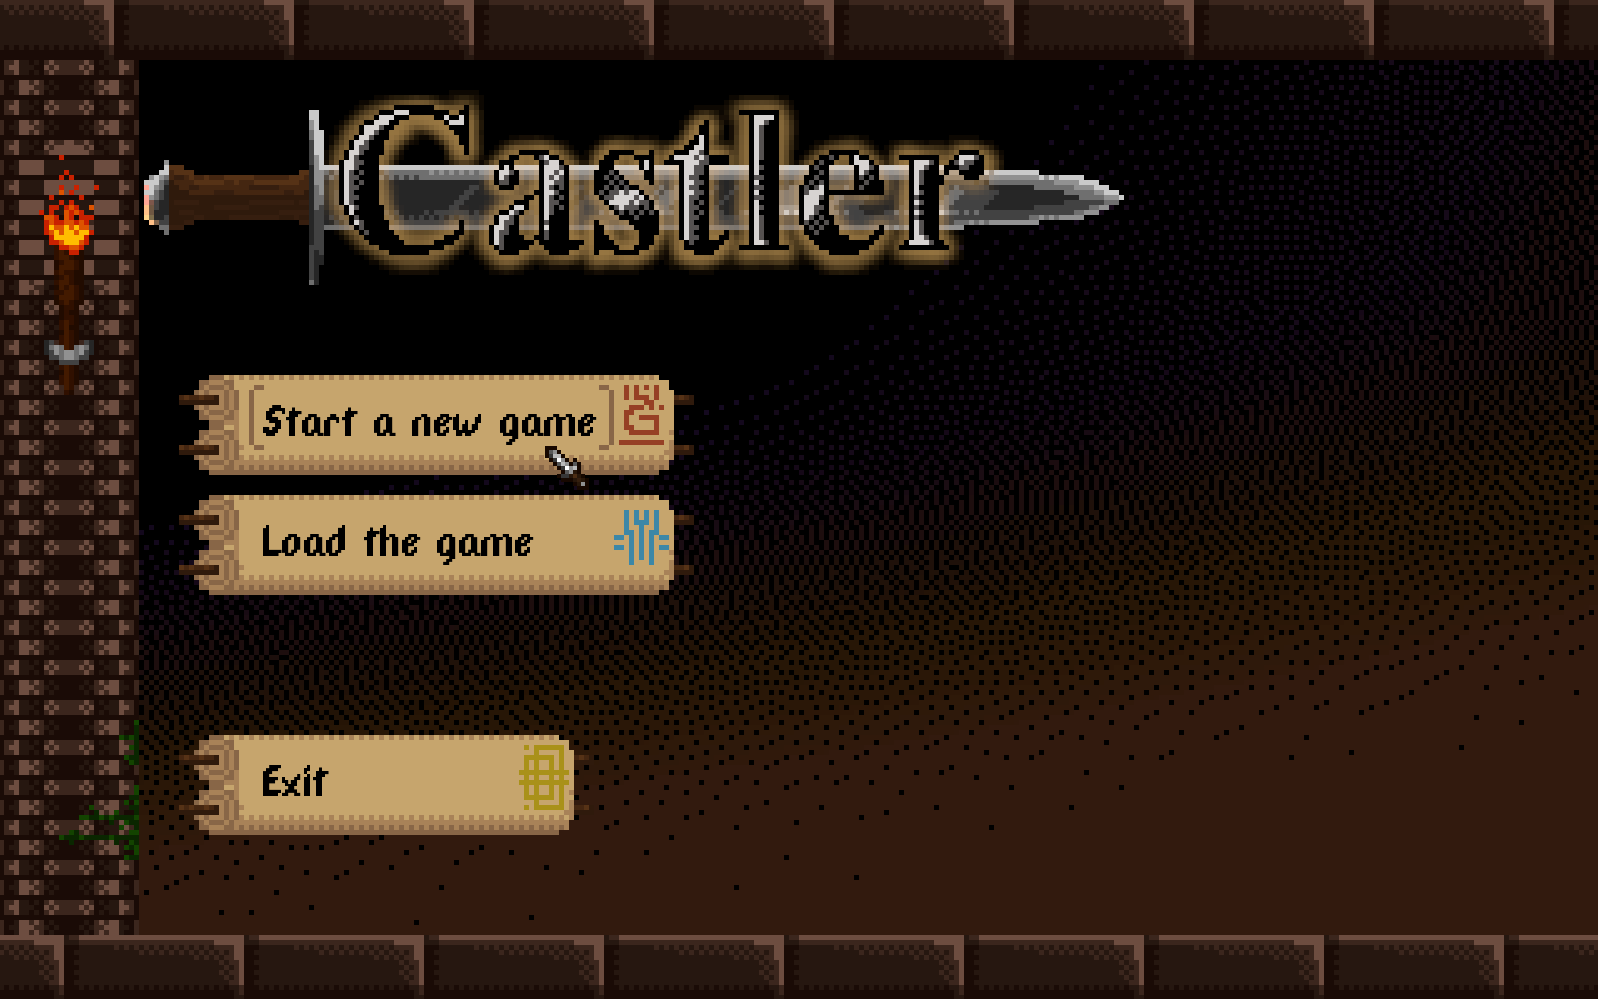
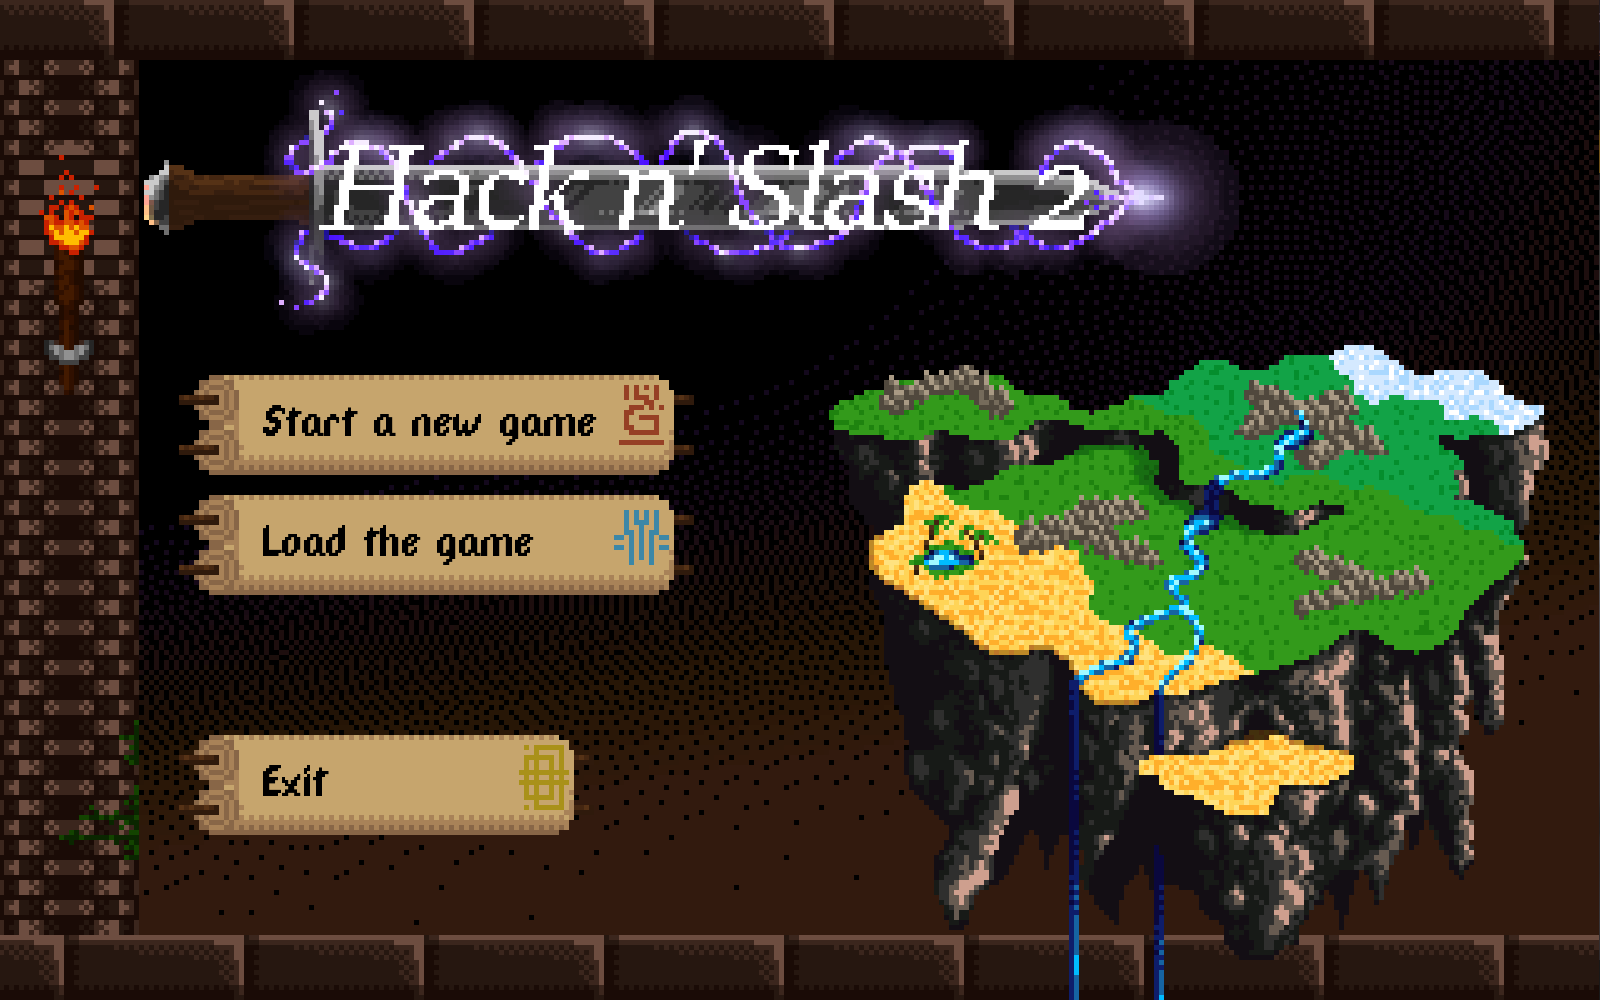
New main menu images, changed biome to an enum from int

diff --git a/Generator/Map.cpp b/Generator/Map.cpp
@@ -61,23 +61,23 @@ void hns::Map::SetBaseValues()
 			{
 				for (int y = 0; y < mapHeight; y++)
 				{
-					biome[x][y] = 0;
+					biome[x][y] = plains;
 					city[x][y] = 0;
 					hero[x][y] = 0;
 					path[x][y] = 0;
 					fog[x][y] = 1;
 					path[x][y] = 0;
-					if (rand() % mtnChance == 1) biome[x][y] = 1;
+					if (rand() % mtnChance == 1) biome[x][y] = mountains;
 					if (biome[x][y] == 1) //Enlargening the mountains
 					{
-						if (rand() % 5 > 1 and x < mapWidth - 1) biome[x + 1][y] = 1;
-						if (rand() % 5 > 1 and x > 0) biome[x - 1][y] = 1;
-						if (rand() % 5 > 1 and y < mapHeight - 1) biome[x][y + 1] = 1;
-						if (rand() % 5 > 1 and y > 0) biome[x][y - 1] = 1;
-						if (rand() % 5 > 0 and x < mapWidth - 1 and y < mapHeight - 1) biome[x + 1][y + 1] = 1;
-						if (rand() % 5 > 0 and x > 0 and y < mapHeight - 1) biome[x - 1][y + 1] = 1;
-						if (rand() % 5 > 0 and x < mapWidth - 1 and y > 0) biome[x + 1][y - 1] = 1;
-						if (rand() % 5 > 0 and x > 0 and y > 0) biome[x - 1][y - 1] = 1;
+						if (rand() % 5 > 1 and x < mapWidth - 1) biome[x + 1][y] = mountains;
+						if (rand() % 5 > 1 and x > 0) biome[x - 1][y] = mountains;
+						if (rand() % 5 > 1 and y < mapHeight - 1) biome[x][y + 1] = mountains;
+						if (rand() % 5 > 1 and y > 0) biome[x][y - 1] = mountains;
+						if (rand() % 5 > 0 and x < mapWidth - 1 and y < mapHeight - 1) biome[x + 1][y + 1] = mountains;
+						if (rand() % 5 > 0 and x > 0 and y < mapHeight - 1) biome[x - 1][y + 1] = mountains;
+						if (rand() % 5 > 0 and x < mapWidth - 1 and y > 0) biome[x + 1][y - 1] = mountains;
+						if (rand() % 5 > 0 and x > 0 and y > 0) biome[x - 1][y - 1] = mountains;
 					}
 				}
 			}
@@ -90,8 +90,8 @@ void hns::Map::EnlargeMountains()
 			{
 				for (int y = 0; y < mapHeight; y++)
 				{
-					if (x > 1 and x < mapWidth - 1 and y > 1 and y < mapHeight - 1 and biome[x][y] == 1 and biome[x + 1][y] == 0 and biome[x - 1][y] == 0 and biome[x][y - 1] == 0 and biome[x][y + 1] == 0) biome[x][y] = 0;
-					if (x > 1 and x < mapWidth - 1 and y > 1 and y < mapHeight - 1 and biome[x][y] == 0 and biome[x + 1][y] == 1 and biome[x - 1][y] == 1 and biome[x][y - 1] == 1 and biome[x][y + 1] == 1) biome[x][y] = 1;
+					if (x > 1 and x < mapWidth - 1 and y > 1 and y < mapHeight - 1 and biome[x][y] == 1 and biome[x + 1][y] == 0 and biome[x - 1][y] == 0 and biome[x][y - 1] == 0 and biome[x][y + 1] == 0) biome[x][y] = plains;
+					if (x > 1 and x < mapWidth - 1 and y > 1 and y < mapHeight - 1 and biome[x][y] == 0 and biome[x + 1][y] == 1 and biome[x - 1][y] == 1 and biome[x][y - 1] == 1 and biome[x][y + 1] == 1) biome[x][y] = mountains;
 				}
 			}
 		};
@@ -100,10 +100,10 @@ void hns::Map::CreateDeserts()
 		{
 			for (int x = 0; x < mapWidth; x++)
 			{
-				if (rand() % 2 == 0) biome[x][mapHeight*10/13] = 2;
+				if (rand() % 2 == 0) biome[x][mapHeight*10/13] = desert;
 				for (int y = (mapHeight * 10 / 13) + 1; y < mapHeight; y++)
 				{
-					biome[x][y] = 2;
+					biome[x][y] = desert;
 				}
 			}
 		};
@@ -112,8 +112,8 @@ void hns::Map::CreateArctic()
 		{
 			for (int x = 0; x < mapWidth; x++)
 			{
-				if (rand() % 2 == 0) biome[x][5] = 3;
-				for (int y = 0; y < 5; y++) biome[x][y] = 3;
+				if (rand() % 2 == 0) biome[x][5] = arctic;
+				for (int y = 0; y < 5; y++) biome[x][y] = arctic;
 			}
 		};
 
@@ -217,7 +217,7 @@ void hns::Map::CreateForests()
 						{
 							for (y1 = 0; y1 < 3; y1++)
 							{
-								if (x + x1 - 1 >= 0 && x + x1 - 1 < mapWidth && y + y1 - 1 >= 0 && y + y1 - 1 < mapHeight && biome[x + x1 - 1][y + y1 - 1] == 0) biome[x + x1 - 1][y + y1 - 1] = 4;
+								if (x + x1 - 1 >= 0 && x + x1 - 1 < mapWidth && y + y1 - 1 >= 0 && y + y1 - 1 < mapHeight && biome[x + x1 - 1][y + y1 - 1] == 0) biome[x + x1 - 1][y + y1 - 1] = forest;
 							}
 						}
 					}
@@ -234,28 +234,28 @@ void hns::Map::CreateForests()
 						{
 							if (biome[x + 1][y] == 0)
 							{
-								biome[x + 1][y] = 100;
+								biome[x + 1][y] = temporary;
 							}
 						}
 						if (x > 0)
 						{
 							if (biome[x - 1][y] == 0)
 							{
-								biome[x - 1][y] = 100;
+								biome[x - 1][y] = temporary;
 							}
 						}
 						if (y < mapHeight)
 						{
 							if (biome[x][y + 1] == 0)
 							{
-								biome[x][y + 1] = 100;
+								biome[x][y + 1] = temporary;
 							}
 						}
 						if (y > 0)
 						{
 							if (biome[x][y - 1] == 0)
 							{
-								biome[x][y - 1] = 100;
+								biome[x][y - 1] = temporary;
 							}
 						}
 					}
@@ -268,7 +268,7 @@ void hns::Map::CreateForests()
 				{
 					if (biome[x][y] == 100)
 					{
-						biome[x][y] = 4;
+						biome[x][y] = forest;
 					}
 				}
 			}
@@ -325,8 +325,8 @@ void hns::Map::FurtherCityGen()
 				{
 					if (y < mapHeight*2 / 5)
 					{
-						if (biome[x][y] == 0) biome[x][y] = 5;
-						if (biome[x][y] == 4) biome[x][y] = 6;
+						if (biome[x][y] == 0) biome[x][y] = cold_plains;
+						if (biome[x][y] == 4) biome[x][y] = cold_forest;
 					}
 
 					for (int i = 0; i < 20; i++)
@@ -640,6 +640,32 @@ void hns::Map::Initialize()
 	wcout << L"Baked the textures." << std::endl;
 	BakeMap();
 	wcout << L"Baked the map." << std::endl;
+}
+
+int hns::Map::ChooseConnectedSpriteIndex(int c, int u, int value, std::vector<std::vector<Biome>> valueType, std::string fileName)
+{
+	int i;
+	for (i = 0; i < mapTextures.size(); i++)
+	{
+		if (mapTextures[i].name == fileName) break;
+	}
+
+	if (u + 1 < mapHeight and u - 1 >= 0 and c + 1 < mapWidth and c - 1 >= 0 and valueType[c - 1][u] != value and valueType[c + 1][u] == value and valueType[c][u + 1] != value and valueType[c][u - 1] != value) return i + 1;
+	else if (u + 1 < mapHeight and u - 1 >= 0 and c + 1 < mapWidth and c - 1 >= 0 and valueType[c - 1][u] == value and valueType[c + 1][u] == value and valueType[c][u + 1] != value and valueType[c][u - 1] != value) return i + 2;
+	else if (u + 1 < mapHeight and u - 1 >= 0 and c + 1 < mapWidth and c - 1 >= 0 and valueType[c - 1][u] == value and valueType[c + 1][u] != value and valueType[c][u + 1] != value and valueType[c][u - 1] != value) return i + 3;
+	else if (u + 1 < mapHeight and u - 1 >= 0 and c + 1 < mapWidth and c - 1 >= 0 and valueType[c - 1][u] != value and valueType[c + 1][u] != value and valueType[c][u + 1] == value and valueType[c][u - 1] != value) return i + 4;
+	else if (u + 1 < mapHeight and u - 1 >= 0 and c + 1 < mapWidth and c - 1 >= 0 and valueType[c - 1][u] != value and valueType[c + 1][u] != value and valueType[c][u + 1] == value and valueType[c][u - 1] == value) return i + 5;
+	else if (u + 1 < mapHeight and u - 1 >= 0 and c + 1 < mapWidth and c - 1 >= 0 and valueType[c - 1][u] != value and valueType[c + 1][u] != value and valueType[c][u + 1] != value and valueType[c][u - 1] == value) return i + 6;
+	else if (u + 1 < mapHeight and u - 1 >= 0 and c + 1 < mapWidth and c - 1 >= 0 and valueType[c - 1][u] == value and valueType[c + 1][u] == value and valueType[c][u + 1] != value and valueType[c][u - 1] == value) return i + 7;
+	else if (u + 1 < mapHeight and u - 1 >= 0 and c + 1 < mapWidth and c - 1 >= 0 and valueType[c - 1][u] == value and valueType[c + 1][u] == value and valueType[c][u + 1] == value and valueType[c][u - 1] != value) return i + 8;
+	else if (u + 1 < mapHeight and u - 1 >= 0 and c + 1 < mapWidth and c - 1 >= 0 and valueType[c - 1][u] != value and valueType[c + 1][u] == value and valueType[c][u + 1] == value and valueType[c][u - 1] == value) return i + 9;
+	else if (u + 1 < mapHeight and u - 1 >= 0 and c + 1 < mapWidth and c - 1 >= 0 and valueType[c - 1][u] == value and valueType[c + 1][u] != value and valueType[c][u + 1] == value and valueType[c][u - 1] == value) return i + 10;
+	else if (u + 1 < mapHeight and u - 1 >= 0 and c + 1 < mapWidth and c - 1 >= 0 and valueType[c - 1][u] == value and valueType[c + 1][u] == value and valueType[c][u + 1] == value and valueType[c][u - 1] == value) return i + 11;
+	else if (u + 1 < mapHeight and u - 1 >= 0 and c + 1 < mapWidth and c - 1 >= 0 and valueType[c - 1][u] == value and valueType[c + 1][u] != value and valueType[c][u + 1] != value and valueType[c][u - 1] == value) return i + 12;
+	else if (u + 1 < mapHeight and u - 1 >= 0 and c + 1 < mapWidth and c - 1 >= 0 and valueType[c - 1][u] != value and valueType[c + 1][u] == value and valueType[c][u + 1] != value and valueType[c][u - 1] == value) return i + 13;
+	else if (u + 1 < mapHeight and u - 1 >= 0 and c + 1 < mapWidth and c - 1 >= 0 and valueType[c - 1][u] == value and valueType[c + 1][u] != value and valueType[c][u + 1] == value and valueType[c][u - 1] != value) return i + 14;
+	else if (u + 1 < mapHeight and u - 1 >= 0 and c + 1 < mapWidth and c - 1 >= 0 and valueType[c - 1][u] != value and valueType[c + 1][u] == value and valueType[c][u + 1] == value and valueType[c][u - 1] != value) return i + 15;
+	else return i;
 }
 
 int hns::Map::ChooseConnectedSpriteIndex(int c, int u, int value, std::vector<std::vector<int>> valueType, std::string fileName)

diff --git a/Generator/Map.h b/Generator/Map.h
@@ -6,6 +6,18 @@
 
 class hns::Player;
 
+enum Biome
+{
+	plains,
+	mountains,
+	desert,
+	arctic,
+	forest,
+	cold_plains,
+	cold_forest,
+	temporary = 100
+};
+
 class ExtendedTexture
 {
 public:
@@ -32,7 +44,7 @@ private:
 	std::string mapName;
 	std::vector<ExtendedTexture> mapTextures;
 public:
-	std::vector<std::vector<int>> biome;
+	std::vector<std::vector<Biome>> biome;
 	std::vector<std::vector<int>> city;
 	std::vector<std::vector<int>> cityID;
 	std::vector<std::vector<int>> cityGuardian;
@@ -48,7 +60,7 @@ public:
 		this->mapName = mapName;
 
 		mapTextures.begin();
-		biome.resize(mW, std::vector<int>(mH, 0));
+		biome.resize(mW, std::vector<Biome>(mH, (Biome) 0));
 		city.resize(mW, std::vector<int>(mH, 0));
 		cityID.resize(mW, std::vector<int>(mH, 0));
 		cityGuardian.resize(mW, std::vector<int>(mH, 0));
@@ -68,6 +80,7 @@ public:
 	void ClearFog(Player& player1);
 
 	int ChooseConnectedSpriteIndex(int c, int u, int biomeId, std::vector<std::vector<int>> valueType, std::string fileName);
+	int ChooseConnectedSpriteIndex(int c, int u, int biomeId, std::vector<std::vector<Biome>> valueType, std::string fileName);
 
 	sf::Texture LookForTexture(std::string name);
 

diff --git a/Generator/main.cpp b/Generator/main.cpp
@@ -139,7 +139,7 @@ int main()
 					hns::Enemy enemy;
 					enemy.loadEnemy("forest");
 					hns::Fight fight(enemy);
-					fight.start(window, mainPlayer, fightUI, mainEquipment);
+					fight.Start(window, mainPlayer, fightUI, mainEquipment);
 					int itemRewardArray[4] = { 0,1,5,101 };
 					int chosenItemId = rand() % 4;
 					int howMany = 1 + rand() % 2;
@@ -165,7 +165,7 @@ int main()
 					hns::Enemy enemy;
 					enemy.loadEnemy("forestCold");
 					hns::Fight fight(enemy);
-					fight.start(window, mainPlayer, fightUI, mainEquipment);
+					fight.Start(window, mainPlayer, fightUI, mainEquipment);
 					int itemRewardArray[4] = { 0,1,5,102 };
 					int chosenItemId = rand() % 4;
 					int howMany = 1 + rand() % 2;
@@ -191,7 +191,7 @@ int main()
 					hns::Enemy enemy;
 					enemy.loadEnemy("mountains");
 					hns::Fight fight(enemy);
-					fight.start(window, mainPlayer, fightUI, mainEquipment);
+					fight.Start(window, mainPlayer, fightUI, mainEquipment);
 					int itemRewardArray[3] = { 0,1,103 };
 					int chosenItemId = rand() % 3;
 					int howMany = 1 + rand() % 2;

diff --git a/Generator/Fight.h b/Generator/Fight.h
@@ -22,15 +22,23 @@ public:
 	void loadEnemy(std::string fileName);
 };
 
+class hns::FightReward
+{
+
+};
+
 class hns::Fight
 {
+private:
+	hns::FightReward reward;
 	hns::Enemy enemy;
 	std::string sprName;
 	sf::Sprite sprite;
-	void viewBackground(sf::RenderWindow& window);
+	void ViewBackground(sf::RenderWindow& window);
 public:
 	Fight(hns::Enemy enemy = Enemy(), std::string sprName = "forest.png");
-	void start(sf::RenderWindow& window, Player& mainPlayer, hns::Interface mainInterface, hns::Equipment& mainEquipment);
+	void RollReward(int biome);
+	void Start(sf::RenderWindow& window, Player& mainPlayer, hns::Interface mainInterface, hns::Equipment& mainEquipment);
 };
 
 class hns::FightDialogue : public hns::Dialogue
@@ -63,3 +71,4 @@ public:
 	void Push(std::wstring string, sf::Color inColor = sf::Color::Yellow, sf::Color outColor = sf::Color::Black);
 	void Draw(sf::RenderWindow& window);
 };
+

diff --git a/Generator/Fight.cpp b/Generator/Fight.cpp
@@ -90,9 +90,10 @@ hns::Fight::Fight(hns::Enemy enemy, std::string sprName)
 {
 	this->enemy = enemy;
 	this->sprName = sprName;
+	reward = hns::FightReward();
 }
 
-void hns::Fight::viewBackground(sf::RenderWindow &window)
+void hns::Fight::ViewBackground(sf::RenderWindow &window)
 {
 	sf::Texture texture;
 	texture.loadFromFile("Textures\\" + sprName);
@@ -100,7 +101,7 @@ void hns::Fight::viewBackground(sf::RenderWindow &window)
 	window.draw(sprite);
 }
 
-void hns::Fight::start(sf::RenderWindow &window, Player &mainPlayer, hns::Interface mainInterface, hns::Equipment &mainEquipment)
+void hns::Fight::Start(sf::RenderWindow &window, Player &mainPlayer, hns::Interface mainInterface, hns::Equipment &mainEquipment)
 {
 	hns::FightDialogue fightDialogue("forestView", "GARDENS3", "fightInterface", "dpcomic");
 	hns::FightDiary fightDiary = hns::FightDiary();

diff --git a/Generator/General.h b/Generator/General.h
@@ -18,9 +18,10 @@ namespace hns
 	class Enemy;
 	class Dialogue;
 	class FightDialogue;
+	class FightDiary;
+	class FightReward;
 	class Menu;
 	class TextObject;
-	class FightDiary;
 	class City;
 	class Player;
 	class Map;
